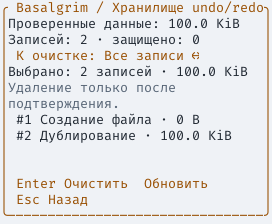
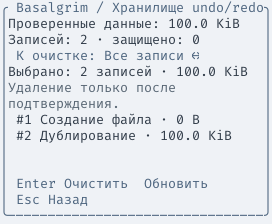
fix: soften the default light theme palette

diff --git a/src/preferences.rs b/src/preferences.rs
@@ -204,14 +204,24 @@ pub fn base_colors(theme: Theme) -> BTreeMap<String, [u8; 3]> {
         colors.insert("active".into(), [188, 125, 228]);
     }
     if theme == Theme::Light {
+        // Define every role so the light preset never inherits vivid brand accents.
         for (role, rgb) in [
             ("background", [239, 242, 246]),
-            ("text", [31, 39, 49]),
-            ("active", [152, 78, 0]),
-            ("folder_path", [85, 99, 116]),
-            ("selected_file_background", [212, 225, 239]),
-            ("error", [174, 37, 57]),
-            ("button_text", [31, 39, 49]),
+            ("text", [48, 59, 72]),
+            ("button_text", [48, 59, 72]),
+            ("active", [76, 100, 126]),
+            ("sidebar_title", [79, 95, 112]),
+            ("error", [164, 64, 74]),
+            ("inactive_file_border", [157, 169, 181]),
+            ("inactive_panel_border", [170, 180, 191]),
+            ("gradient_dark", [98, 117, 138]),
+            ("folder_icon", [78, 101, 125]),
+            ("selection_accent", [110, 94, 123]),
+            ("confirm_background", [213, 225, 233]),
+            ("help_heading", [72, 106, 99]),
+            ("folder_path", [87, 101, 115]),
+            ("separator", [96, 108, 122]),
+            ("selected_file_background", [215, 226, 236]),
         ] {
             colors.insert(role.into(), rgb);
         }

diff --git a/scripts/smoke_gui.py b/scripts/smoke_gui.py
@@ -321,7 +321,7 @@ try:
             # Publication precedes the worker result and directory refresh.
             # Wait for the selected list row in our fixed Light palette before
             # issuing Cut; an empty/loading pane has no file to cut yet.
-            wait_for(lambda:screenshot(window,'native-keyboard-ready.png').getpixel((800,177))==(212,225,239),'file list ready after copy')
+            wait_for(lambda:screenshot(window,'native-keyboard-ready.png').getpixel((800,177))==(215,226,236),'file list ready after copy')
             chord('x','Control_L'); navigate(files); chord('v','Control_L')
             wait_for(lambda:(files/'alpha.txt').exists(),'Ctrl+X/V move')
             assert not (destination/'alpha.txt').exists()

diff --git a/src/ui/dialogs.rs b/src/ui/dialogs.rs
@@ -307,7 +307,11 @@ pub fn render(app: &mut App, frame: &mut Frame, palette: Palette) {
         .style(
             palette
                 .text()
-                .fg(palette.color("background"))
+                .fg(palette.color(if palette.light() {
+                    "button_text"
+                } else {
+                    "background"
+                }))
                 .bg(palette.color("confirm_background")),
         ),
         confirm,

diff --git a/docs/USAGE.md b/docs/USAGE.md
@@ -99,6 +99,7 @@ cargo run --release --no-default-features --features tui --bin basalgrim-tui -- 
 
 - `Tab` / `Shift+Tab` переключают фокус между разделами, вкладками темы и параметрами. `↑`/`↓`, Home/End и PageUp/PageDown перемещают выбор; `←`/`→` меняют значение; Enter открывает редактор или выполняет действие; Esc возвращает назад.
 - **Темы → Пресеты**: Molten-Zharr, Classic Amber, Classic Violet и Light. Выбор темы меняет палитру, сохраняя выбранные шрифт и геометрию. **Сбросить оформление** возвращает исходное оформление целиком.
+- **Light**: светлый фон, серо-синие папки и приглушённые акценты. [Снимок светлой темы](../assets/screenshots/light.png).
 - **Темы → Палитра**: нажмите на HEX-значение или Enter, введите `#RRGGBB`; `Ctrl+U` очищает поле. Изменения цветов сохраняются отдельно для каждой темы. Сброс цветов затрагивает только текущую тему.
 - **Темы → Шрифт и геометрия**: Fira Code, Fira Code Bold, DejaVu Sans Mono; размер 10–32; рамки без обводки, одинарные, двойные или толстые; прямые/скруглённые углы одинарной рамки. Шрифт в окне меняется сразу, с учётом масштаба экрана. В TUI эти параметры сохраняются для оконного запуска; шрифт самого терминала контролирует терминал.
 - **Темы → Иконки**: **Изображения** или **Символы**, переключение стрелками, Enter или мышью. Выбор применяется сразу и сохраняется. Если терминал не поддерживает изображения, приложение показывает символы и сохраняет предпочтение для GUI или другого терминала. Изображения в окне масштабируются под размер шрифта и DPI; наведение и выделение сохраняют свой фон.
